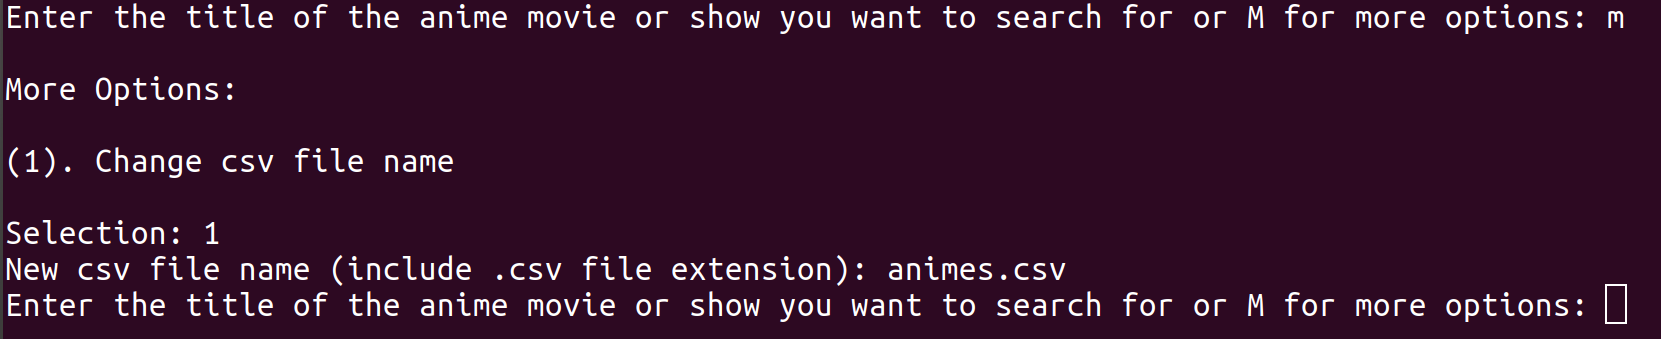
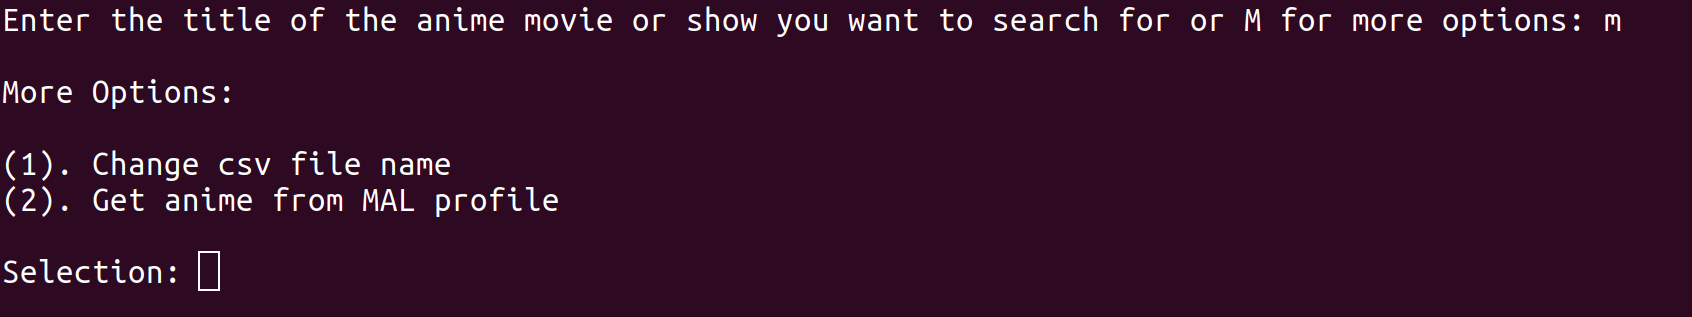
updated readme.md

diff --git a/README.md b/README.md
@@ -33,14 +33,23 @@ Once a result has been selected by the user, the program will output the title, 
 
 ![Output for Black Clover](assets/images/output.png)
 
-### CSV Capabilities
-Can make a new CSV file or append to an existing file. The first time one uses the program, it asks for the name of the CSV file, including the .csv extension, to which one would like to append. Every other time the program asks if the user would like to append to the file, the program knows the name of the file. The CSV file holds the information that is displayed in the output, and it is ordered alphabetically by title of show or movie. If a title already exists in the CSV file, then it will update that row. The file is located on one's Desktop.
+### More Options
+
+To view more options, press 'm' when the program is initially run.
+
+![Change CSV File Name](assets/images/more_options.png)
+
+#### CSV Capabilities
+
+Can make a new CSV file or append to an existing file. The first time one uses the program, it asks for the name of the CSV file, including the .csv extension, to which one would like to append. Every other time the program asks if the user would like to append to the file, the program saved the name of the file previously. The CSV file holds the information that is displayed in the output, and it is ordered alphabetically by title of show or movie. If a title already exists in the CSV file, then it will update that row. The file is located on one's Desktop.
 
 ![Example CSV File](assets/images/csv_file_ex.png)
 
-To edit the name of the file to which one wants to append, it can be done when the program is initially run by pressing 'm'.
+#### Import Shows from MAL Profile
 
-![Change CSV File Name](assets/images/more_options.png)
+When selecting option 2, the user will be prompted with giving the username. After giving the username, if the user has already put the csv file to which the shows will be added to previously, the program will run and update the file with all the shows from the profile given.
+
+![Example Profile Import](assets/images/profile_import.png)
 
 ### Coming Soon
 TBD what new features will be added.
